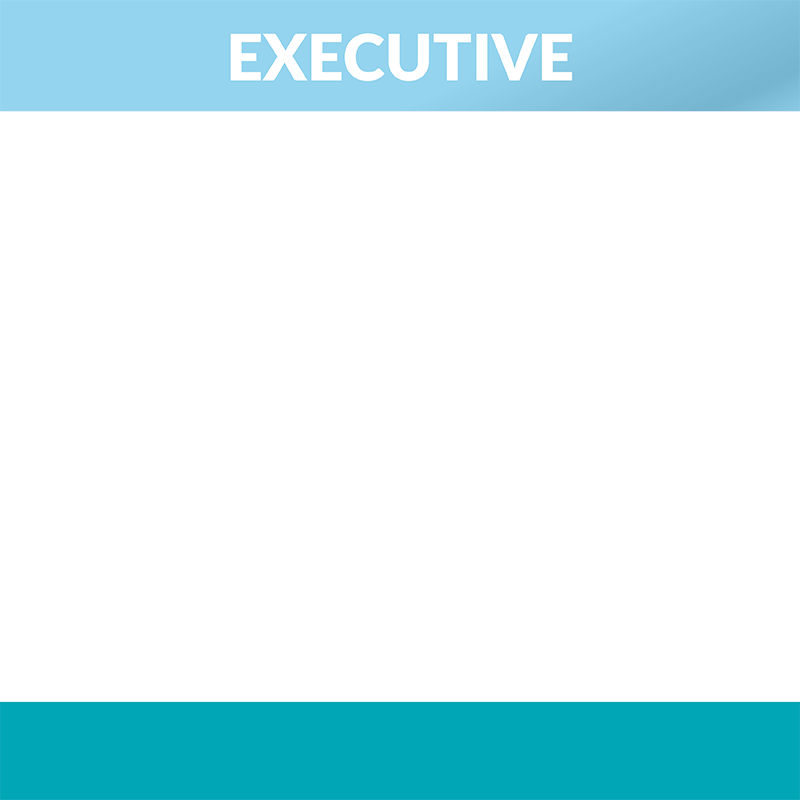
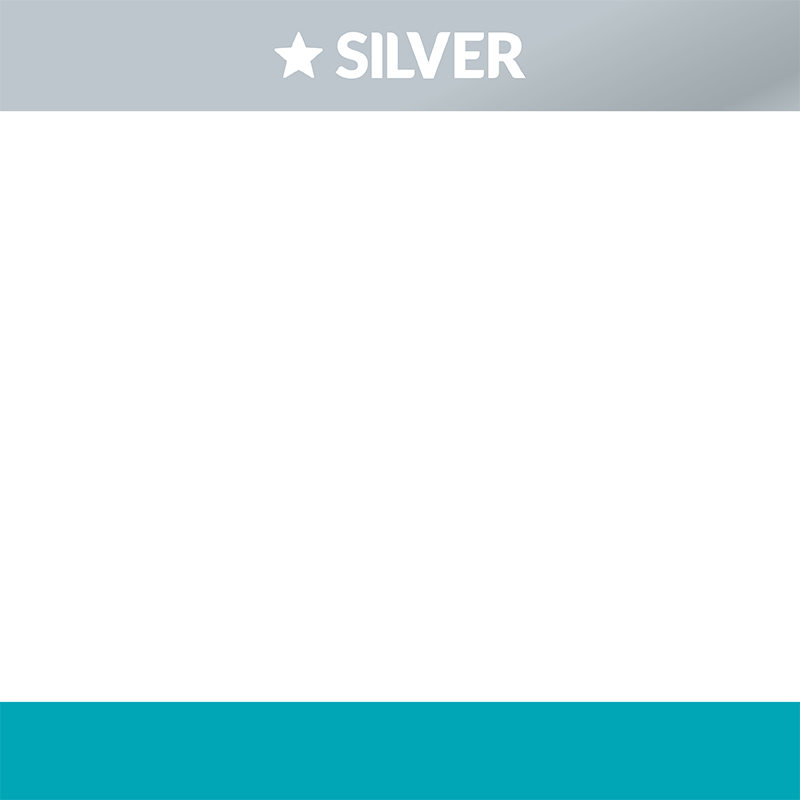
07/10/2024

Changed region(s): [[0.0, 0.0, 1.0, 0.1562]]

diff --git a/public/custom_na_24/pages/charts/chart-0.php b/public/custom_na_24/pages/charts/chart-0.php
@@ -41,7 +41,7 @@ $nivelesProfundidad = 0;
 $comprasUltimoAno = 0;
 
 //$sql = "EXEC ConteoComercialD1_test $codeUser, $periodoPost";
-$sql = "EXEC LAT_MyNIKKEN_TEST.dbo.ConteoComercialD1_usa $codeUser, $periodoPost";
+$sql = "EXEC LAT_MyNIKKEN_TEST.dbo.ConteoComercialD1_usa_24m $codeUser, $periodoPost";
 $recordSet = sqlsrv_query($conn75, $sql) or die( print_r( sqlsrv_errors(), true));
 $periodotoShow = "";
 $monthToShow = [];
@@ -56,11 +56,11 @@ if($rowSap > 0) {
 	$avancesPlatino = trim($rowSap[6]) == "0" ? "" : trim($rowSap[6]);
 	$avancesDiamante = trim($rowSap[7]) == "0" ? "" : trim($rowSap[7]);
 	$avancesDiamanteReal = trim($rowSap[8]) == "0" ? "" : trim($rowSap[8]);
-	$lideresPlata = trim($rowSap[9]);
-	$lideresOro = trim($rowSap[10]);
-	$lideresPlatino = trim($rowSap[11]);
-	$lideresDiamante = trim($rowSap[12]);
-	$lideresDiamanteReal = trim($rowSap[13]);
+	$lideresPlata = $rowSap[9];
+	$lideresOro = $rowSap[10];
+	$lideresPlatino = $rowSap[11];
+	$lideresDiamante = $rowSap[12];
+	$lideresDiamanteReal = $rowSap[13];
 	$numeroInfluencers = trim($rowSap[14]);
 	$numeroClientesPreferentes = trim($rowSap[15]);
 	$activosMensuales = trim($rowSap[16]);
@@ -158,60 +158,6 @@ if(str_replace(" ", "-", strtolower($rankUser)) == "plata"){ $color = imagecolor
 
 $color = imagecolorallocate($template, 255, 255, 255);
 
-// if($widthBox > 457){
-// 	$nameFirst = "";
-// 	$nameLast = "";
-// 	$name = explode(" ", $nameUser);
-// 	$nameTemp = "";
-
-// 	$count = 0;
-// 	$countVal = 0;
-// 	$countName = 0;
-// 	while($countVal == 0){
-// 		if(isset($name[$count])){
-// 			$nameTemp = $nameTemp . $name[$count] . " ";
-
-// 			$boundingBox = imagettfbbox(25, 0, $templateFontLatoBold, $nameTemp);
-// 			// $widthBox = $boundingBox[2] - $boundingBox[0];
-// 			$widthBox = $boundingBox[2];
-
-// 			if($widthBox <= 457 && $countName == 0){
-// 				$nameFirst = $nameFirst . $name[$count] . " ";
-// 			}else{
-// 				$nameLast = $nameLast . $name[$count] . " ";
-// 				$countName++;
-// 			}
-
-// 		}else{ $countVal++; }
-
-// 		$count++;
-// 	}
-
-// 	$boundingBox = imagettfbbox(25, 0, $templateFontLatoBold, $nameFirst);
-// 	$widthBoxNameFirst = $boundingBox[2] - $boundingBox[0];
-// 	$widthBoxNameFirst = (457 - $widthBoxNameFirst) / 2;
-
-// 	$boundingBox = imagettfbbox(25, 0, $templateFontLatoBold, $nameLast);
-// 	$widthBoxNameLast = $boundingBox[2] - $boundingBox[0];
-// 	$widthBoxNameLast = (457 - $widthBoxNameLast) / 2;
-
-// 	//Doble
-// 	imagettftext($template, 25, 0, $widthBoxNameFirst, 27, $color, $templateFontLatoBold, $nameFirst);
-// 	imagettftext($template, 25, 0, $widthBoxNameLast, 60, $color, $templateFontLatoBold, $nameLast);
-// 	//Doble
-// }
-// else{
-// 	@$boundingBox = imagettfbbox(25, 0, $templateFontLatoBold, $nameUser);
-// 	@$widthBoxNameFirst = $boundingBox[2] - $boundingBox[0];
-// 	$widthBoxNameFirst = (457 - $widthBoxNameFirst) / 2;
-
-// 	//Simple
-// 	@imagettftext($template, 25, 0, $widthBoxNameFirst, 43, $color, $templateFontLatoBold, $nameUser);
-// 	//Simple
-// }
-
-//Simple
-// @imagettftext($template, 25, 0, $widthBoxNameFirst, 43, $color, $templateFontLatoBold, $nameUser);
 @imagettftext($template, 25, 0, $widthBoxNameFirst, 43, $color, $templateFontLatoBold, $nameUser);
 
 imagepng($template, "../../pages/charts/chart/$codeUser-text.png");

diff --git a/app/Http/Controllers/variablesCom.php b/app/Http/Controllers/variablesCom.php
@@ -18,7 +18,16 @@ class variablesCom extends Controller{
             $codeUser = $code;
 
             $conection = \DB::connection('SQL73');
-                $response = $conection->select("SELECT AssociateName as name_user, Country as countrie_user, b.rango_actual as rank_user FROM LAT_MyNIKKEN.dbo.Distributors_MD a WITH(NOLOCK) JOIN Rango_actual_USA b WITH(NOLOCK) ON a.AssociateID = b.numci WHERE Distributor_Status='D' AND AssociateID = $codeUser;");
+                $response = $conection->select("SELECT 
+                                                    AssociateName as name_user, 
+                                                    Country as countrie_user, 
+                                                    MAX(b.Rango) as rank_user 
+                                                FROM LAT_MyNIKKEN.dbo.Distributors_MD a WITH(NOLOCK) 
+                                                JOIN LAT_MyNIKKEN_TEST.dbo.Rangos_Avance_USA b WITH(NOLOCK) ON 
+                                                    a.AssociateID = b.numci 
+                                                WHERE Distributor_Status='D' 
+                                                AND AssociateID = $codeUser
+                                                GROUP BY AssociateName, Country;");
             \DB::disconnect('SQL73');
 
             if(sizeof($response) < 1){

diff --git a/public/custom_na_24/pages/charts/chart-2.php b/public/custom_na_24/pages/charts/chart-2.php
@@ -71,7 +71,7 @@ $dataIncorporacionesIncorporadosActividadTrimestral = array();
 	$count = 0;
 
 	//Periodo inicial de consulta
-	$periodoIni = $periodMonthsByGraph[$monthToShow[16]];
+	$periodoIni = $periodMonthsByGraph[$monthToShow[24]];
 	$period = new DateTime("$periodoIni");
 	//Periodo inicial de consulta
 
@@ -98,7 +98,7 @@ $dataIncorporacionesIncorporadosActividadTrimestral = array();
 		$dataIncorporacionesIncorporaciones = array_merge($dataIncorporacionesIncorporaciones, array($price));
 		//Guardar incorporaciones
 
-		if($count < 21){
+		if($count < 24){
 			//Guardar porcentaje incorporaciones con actividad trimestral
 			$price = isset($dataIncorporaciones[$periodQuery]) ? $dataIncorporaciones[$periodQuery]["porcentajeIncorporacionesActividadTrimestral"] : 0;
 			$dataIncorporacionesPorcentajeIncorporadosActividadTrimestral = array_merge($dataIncorporacionesPorcentajeIncorporadosActividadTrimestral, array($price));

diff --git a/public/custom_na_24/functions.php b/public/custom_na_24/functions.php
@@ -513,7 +513,7 @@ $rangos_usa = [
     1 => 'Direct',
     2 => 'Senior',
     3 => 'Executive',
-    4 => 'Bronze',
+    4 => 'Silver',
     5 => 'Silver',
     6 => 'Gold',
     7 => 'Platinum',
